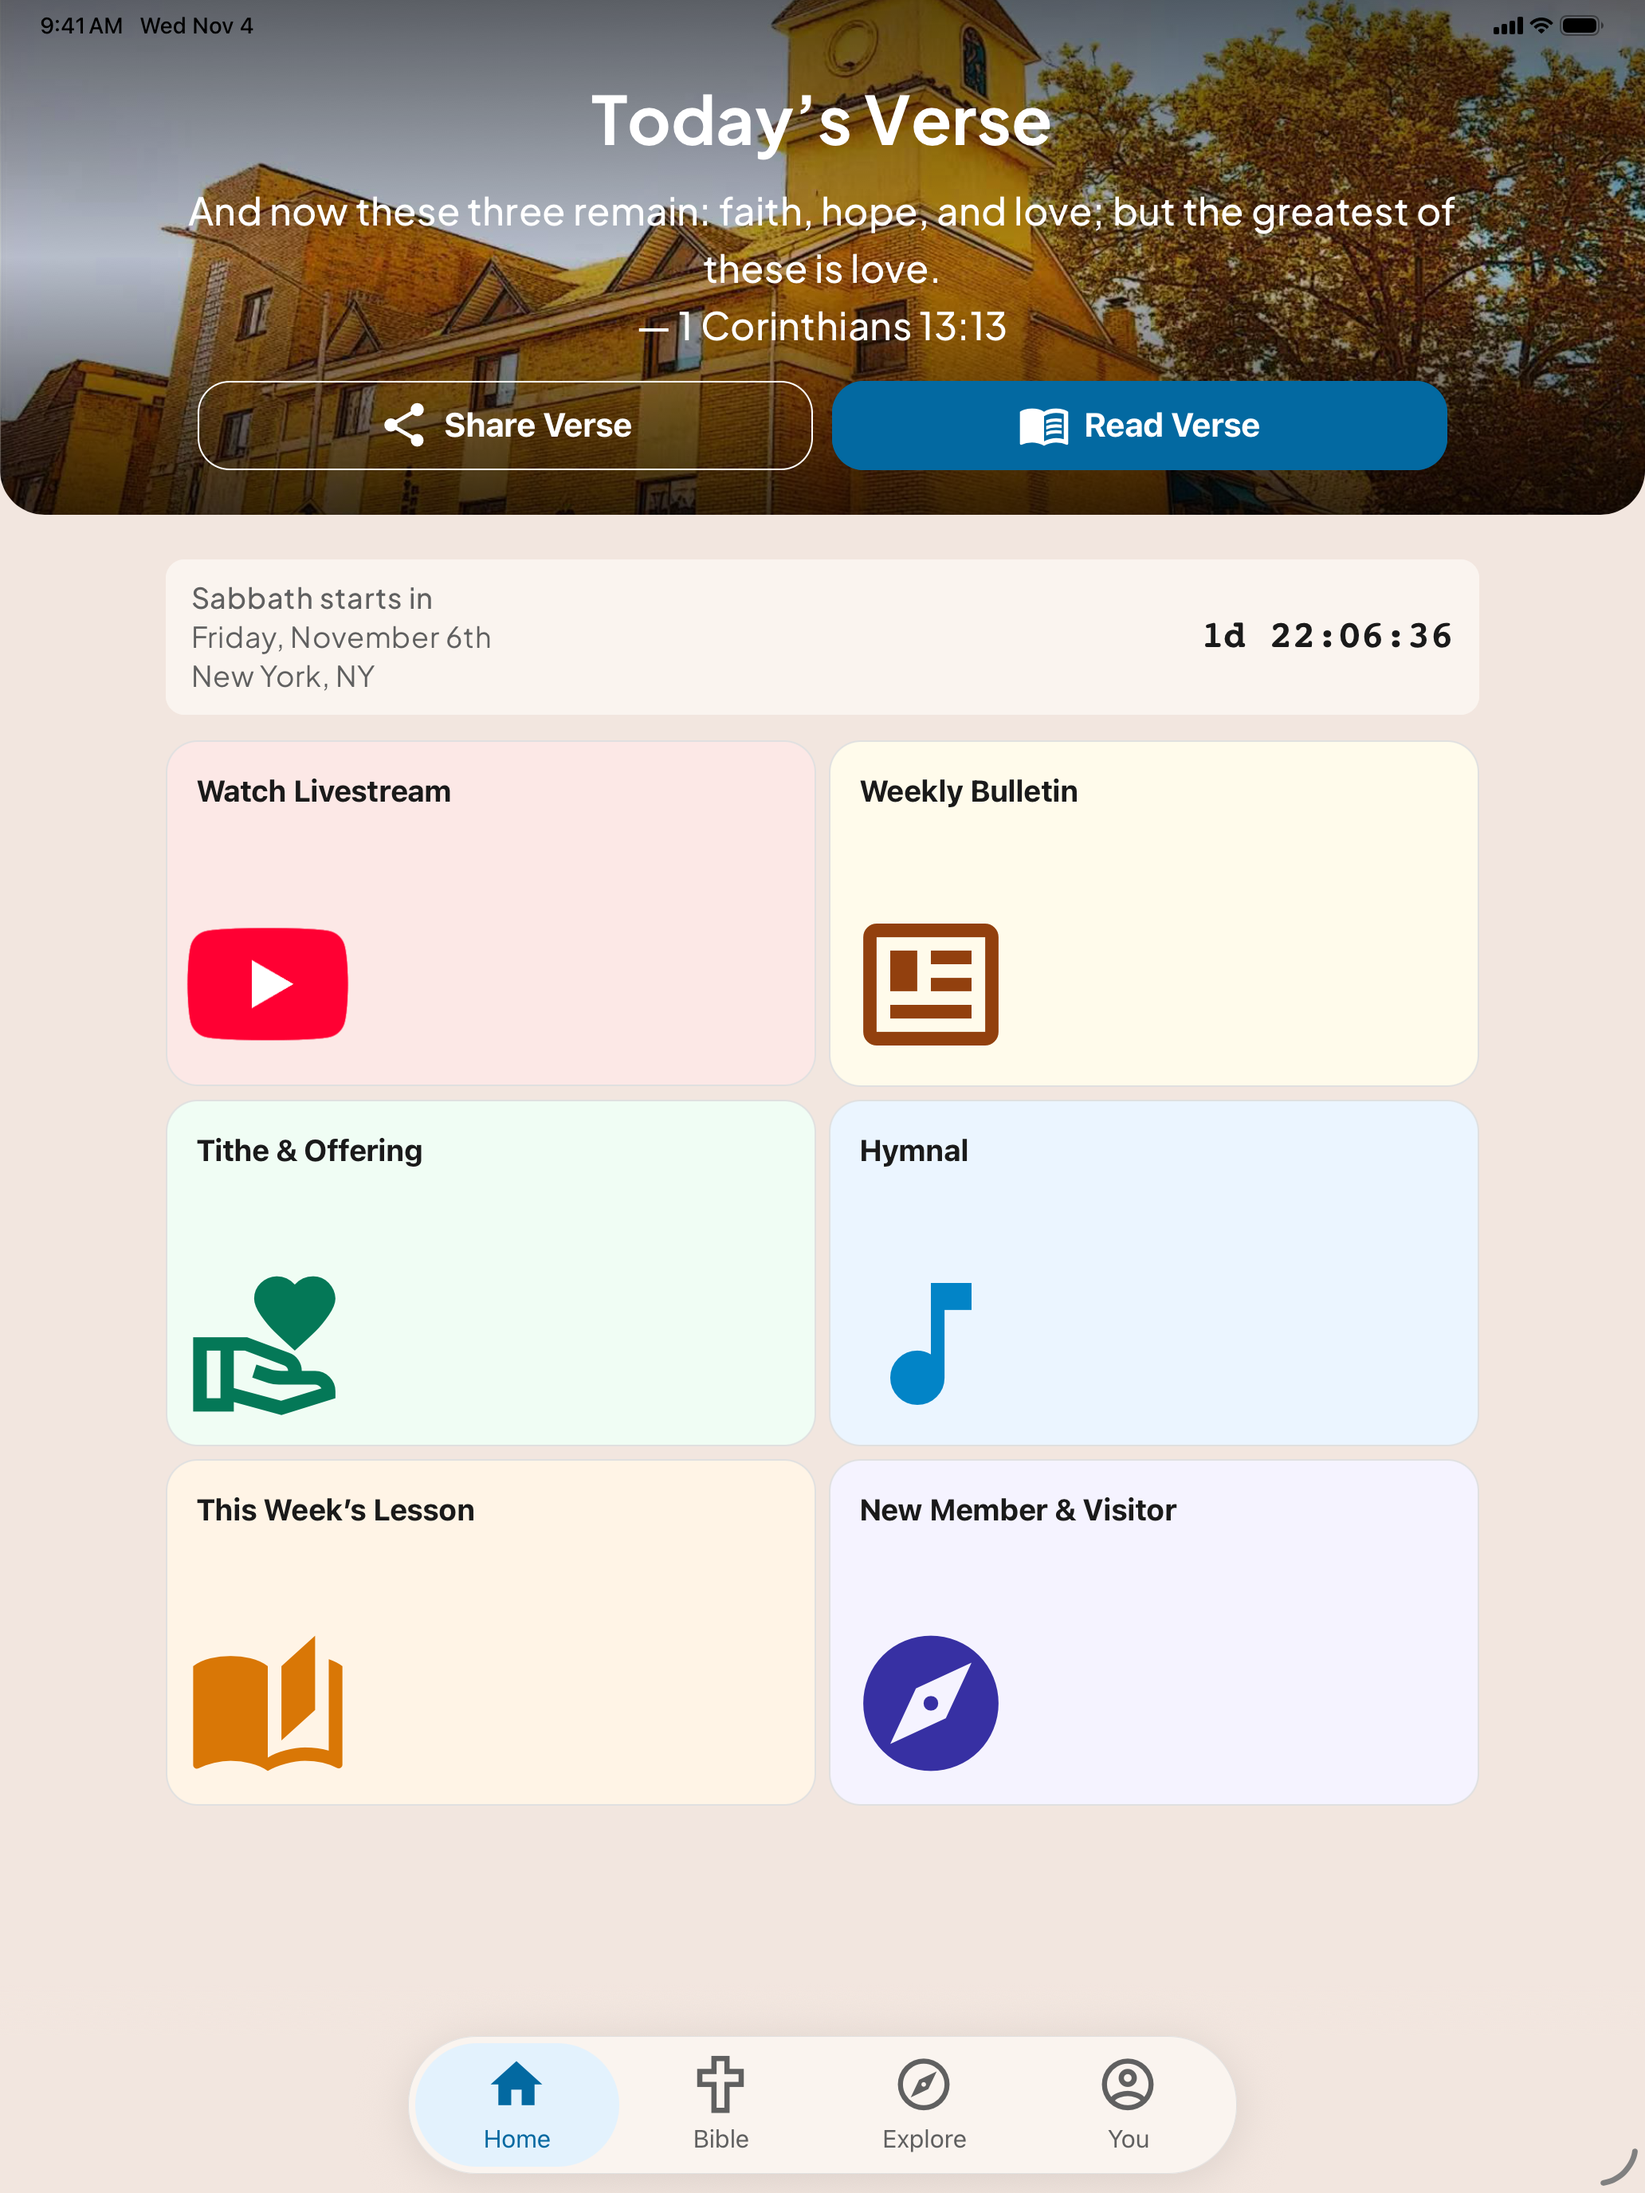
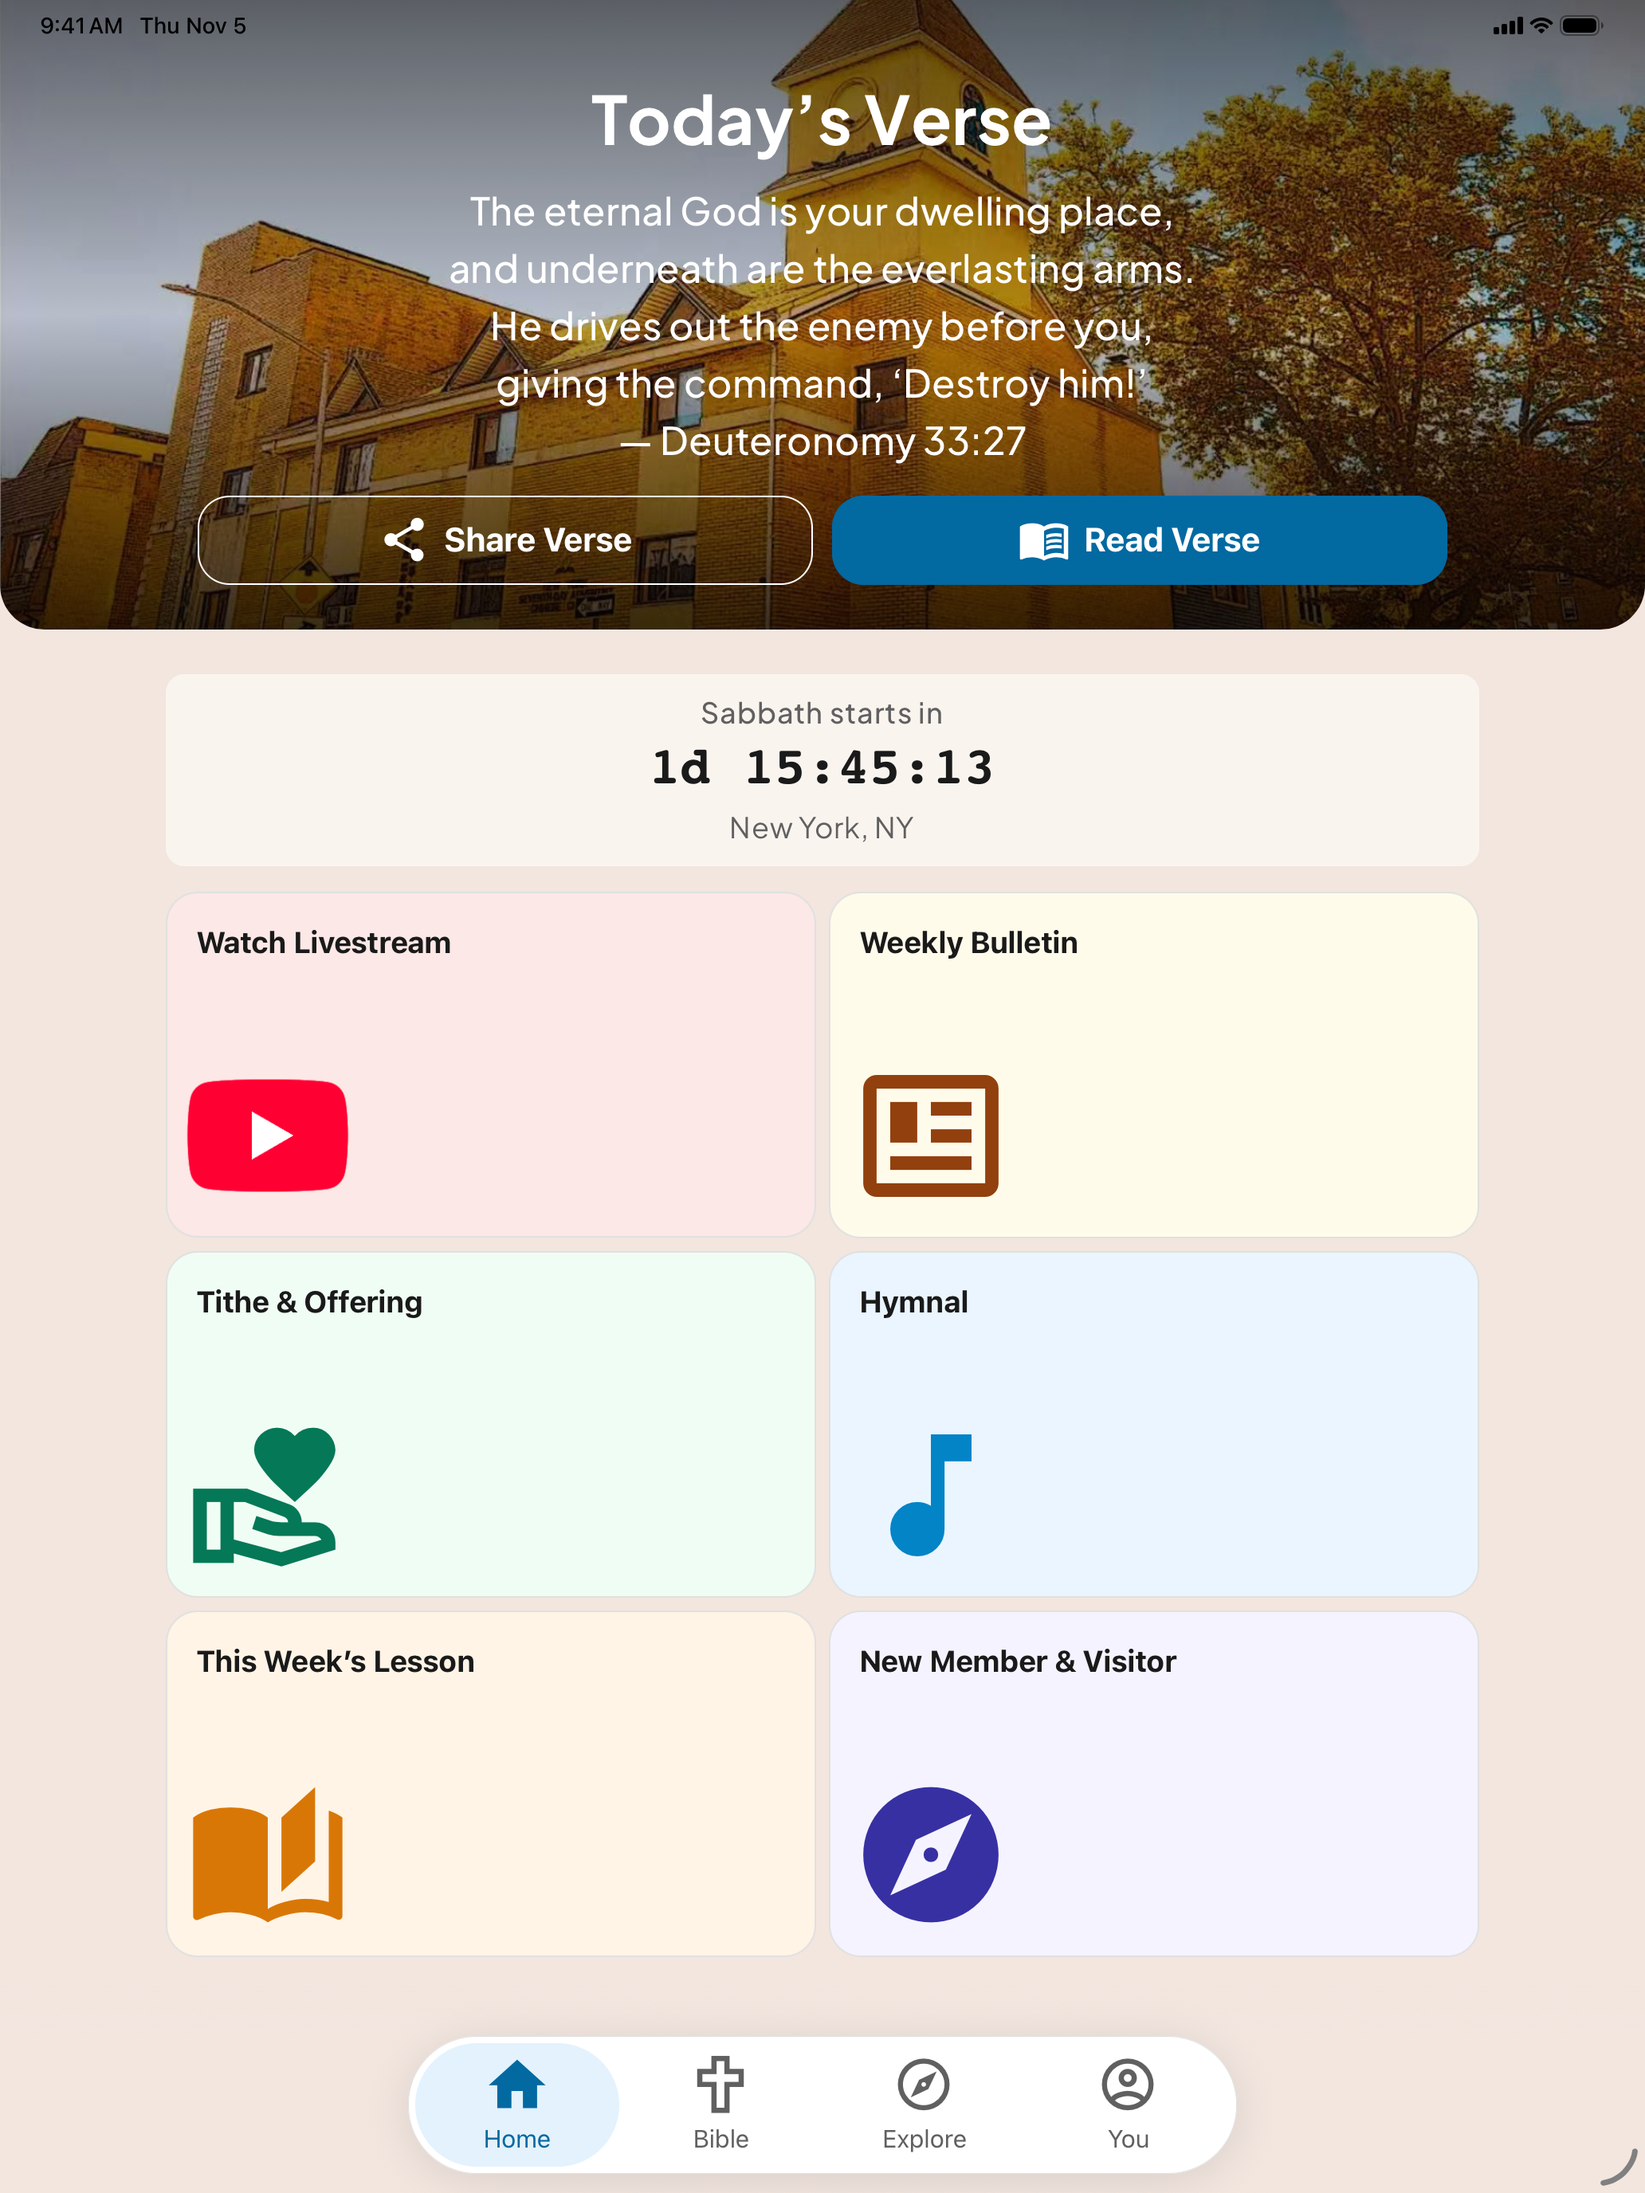
Refresh the store screenshots, headers and feature graphic from 1.7.0's final runs
White bars, or night blue in the dark, and Home's centred three-line
countdown, on iPhone, the 13-inch iPad, and Google Play.

diff --git a/docs/store-assets/README.md b/docs/store-assets/README.md
@@ -29,7 +29,7 @@ are captured, their sizes, and what they may show are in
   takes: Home, the Bible in English and Chinese, the Bible in landscape, the Library,
   and Home in landscape. They're the key screens' 13-inch iPad shots, at the iPad's own
   150% text, copied from a run's `screens/app-store-ipad/en-US/` when the app first ran
-  on iPad (#324), with the floating tab bar and Bible card (#589), November 4, 2026. Upload
+  on iPad (#324), with the floating tab bar and Bible card (#589), November 5, 2026. Upload
   them with 1.7.0, the first release that supports iPad, and copy a newer run's set here only when the iPad's layout changes; a different
   day's verse on Home isn't a reason. The other languages' listings show these too.
 - `app-store/header/`: the App Store product page headers, one per listing language:
@@ -53,10 +53,11 @@ are captured, their sizes, and what they may show are in
   [Foreground service](../operations/play-console-answers.md#foreground-service).
 
 The Play app icon is `public/icon-512x512.png`, so it isn't copied here. The screenshots
-and headers here are from the key-screen runs for 1.7.0 on November 4, 2026, the first
-with the floating tab bar and Bible card on every system (#589):
-[iOS](https://github.com/CodeSammich/sda-church-app/actions/runs/41919509424) and
-[Android](https://github.com/CodeSammich/sda-church-app/actions/runs/41919513576). The
+and headers here are from the key-screen runs for 1.7.0 on November 5, 2026, the first
+with the floating tab bar and Bible card on every system (#589), white or night blue
+for older eyes, and Home's three-line countdown:
+[iOS](https://github.com/CodeSammich/sda-church-app/actions/runs/41973719090) and
+[Android](https://github.com/CodeSammich/sda-church-app/actions/runs/41973721946). The
 feature graphic was built from the Google Play ones.
 
 Each run also saves numbered App Store copies in its screenshots download's
